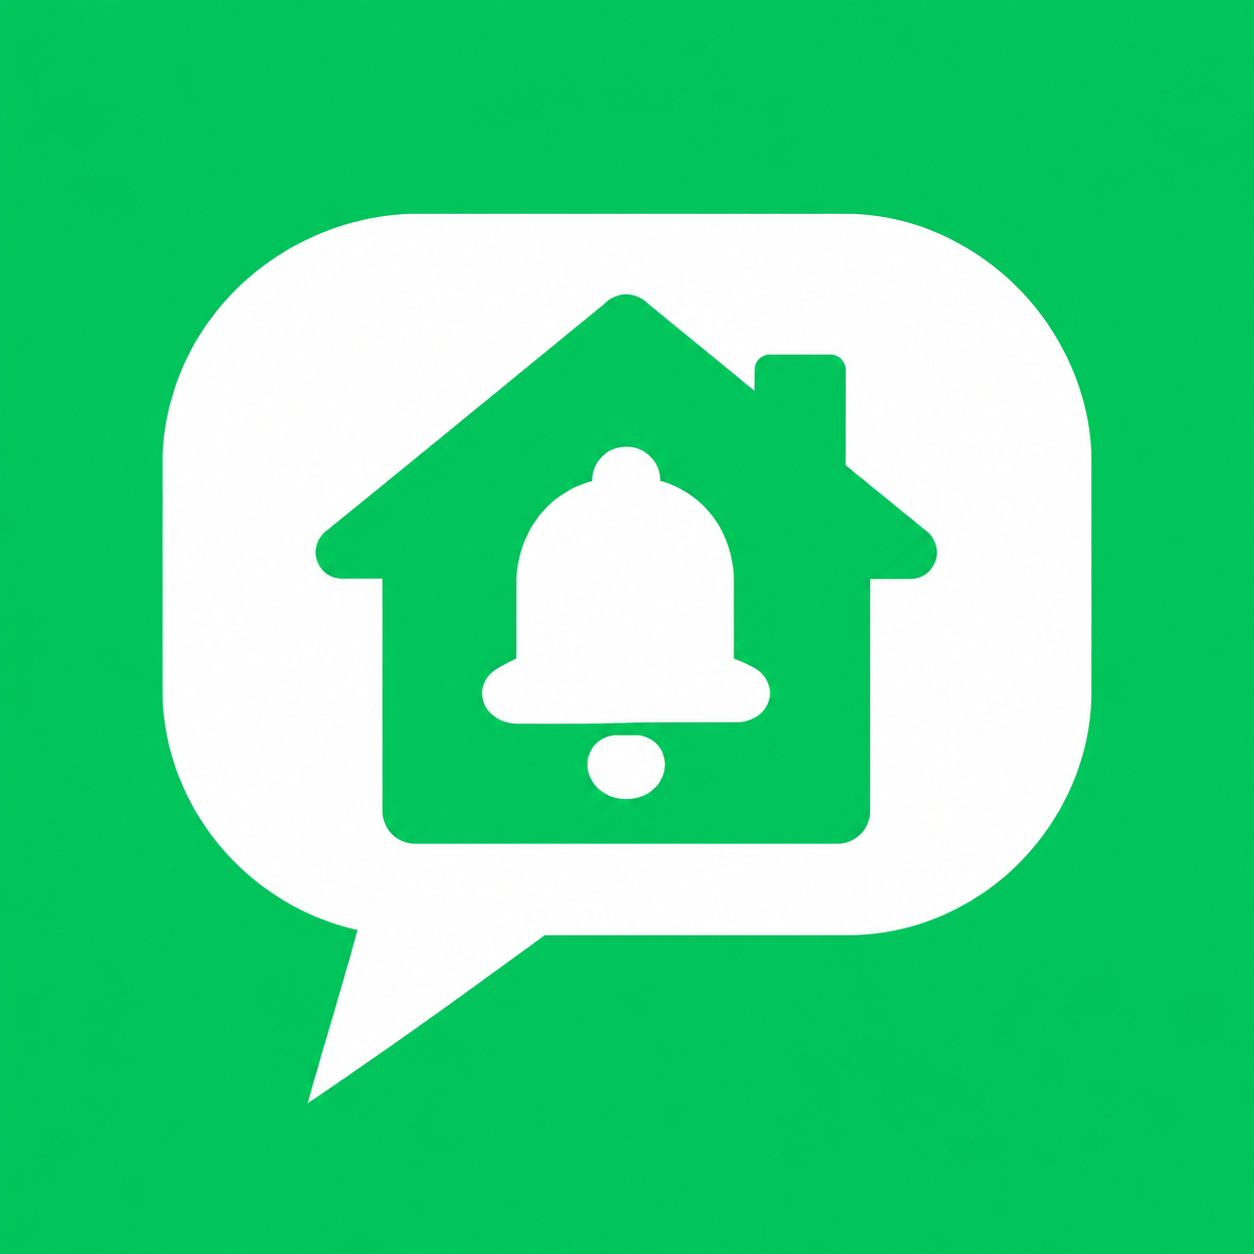
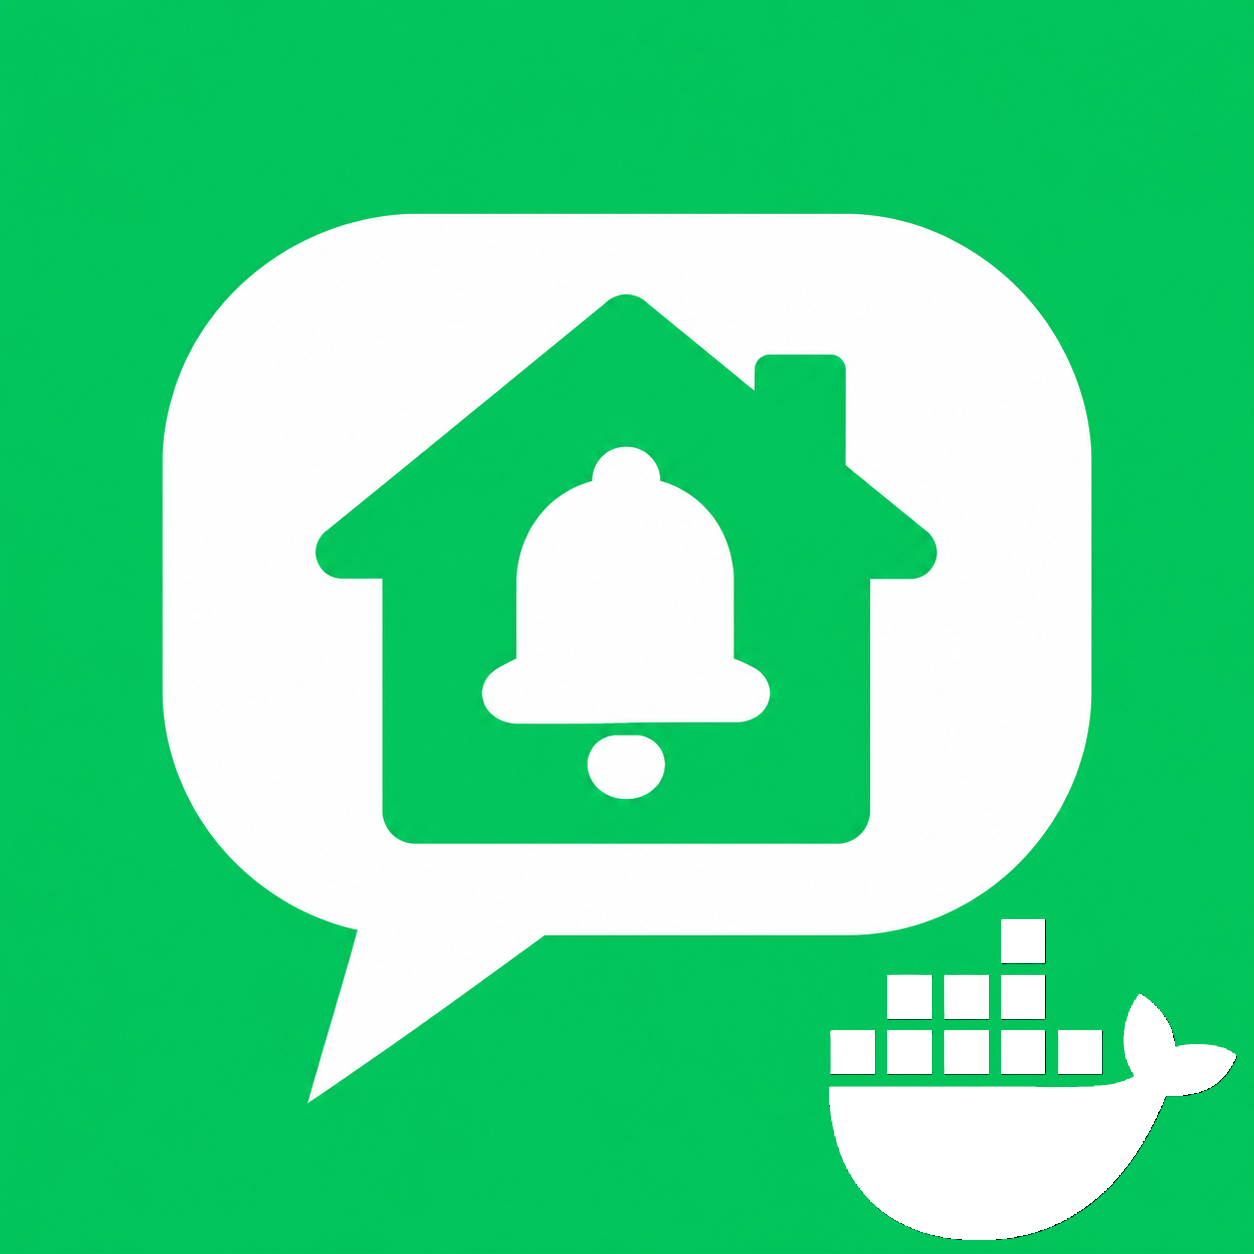
初始版本(可運作)

Changed region(s): [[0.6531, 0.7153, 0.9952, 0.9952]]

diff --git a/line_oa/app/src/server.ts b/line_oa/app/src/server.ts
@@ -4,7 +4,6 @@ import { join, dirname } from 'node:path';
 import { fileURLToPath, pathToFileURL } from 'node:url';
 import { PairingManager, PairingError } from './pairing.js';
 import { DiscoveryPublisher, supervisorRequest, type SupervisorRequest } from './discovery.js';
-import { trustedIngress, ingressPath, ingressMutationAllowed } from './ingress.js';
 import { DATA_DIR, loadConfig } from './config.js';
 import { MemoryLogger } from './logger.js';
 import { SessionManager } from './session.js';
@@ -23,7 +22,6 @@ export interface GatewayOptions {
   lineRequest?: RequestFn;
   qrLogin?: BusinessQrLogin;
   supervisor?: SupervisorRequest;
-  ingressTrust?: typeof trustedIngress;
   sessionCheckDelayMs?: () => number;
 }
 
@@ -205,8 +203,6 @@ async function handleApiV1(req: IncomingMessage, res: ServerResponse, path: stri
 
 const handleUi = async (req: IncomingMessage, res: ServerResponse) => {
   try {
-    if (!(options.ingressTrust ?? trustedIngress)(req) || !ingressPath(req)) return json(res, 403, { error: 'INGRESS_REQUIRED' });
-    if (!ingressMutationAllowed(req)) return json(res, 403, { error: 'ORIGIN_REJECTED' });
     const requestUrl = new URL(req.url ?? '/', 'http://localhost');
     const path = requestUrl.pathname;
     if (path.startsWith('/api/v1/')) return json(res, 404, { error: 'NOT_FOUND' });
@@ -220,7 +216,7 @@ const handleUi = async (req: IncomingMessage, res: ServerResponse) => {
       let browser = auth.browserSession(req.headers.cookie);
       if (!config.uiAuthEnabled && !browser) {
         const created = auth.anonymousSession();
-        res.setHeader('Set-Cookie', scopedCookie(created.cookie, req));
+        res.setHeader('Set-Cookie', standaloneCookie(created.cookie, req));
         browser = { token: '', csrf: created.csrf };
       }
       return json(res, 200, { authenticated: !!browser, setupRequired: config.uiAuthEnabled && auth.setupRequired(), authRequired: config.uiAuthEnabled, ...(browser ? { csrfToken: browser.csrf } : {}) });
@@ -235,7 +231,7 @@ const handleUi = async (req: IncomingMessage, res: ServerResponse) => {
     }
     if (req.method === 'POST' && path === '/api/auth/logout' && browser) {
       qrLogin.cancel(browser.token);
-      auth.logout(browser.token); res.setHeader('Set-Cookie', scopedCookie(auth.clearCookie(), req)); return json(res, 200, { ok: true });
+      auth.logout(browser.token); res.setHeader('Set-Cookie', standaloneCookie(auth.clearCookie(), req)); return json(res, 200, { ok: true });
     }
     if (req.method === 'POST' && path === '/api/session/logout') {
       if (sender.isBusy()) throw new Error('SEND_BUSY');
@@ -329,9 +325,9 @@ const handleUi = async (req: IncomingMessage, res: ServerResponse) => {
   }
 };
 
-function scopedCookie(cookie: string, req: IncomingMessage): string {
+function standaloneCookie(cookie: string, req: IncomingMessage): string {
   const secure = req.headers['x-forwarded-proto'] === 'https' || req.headers.origin?.startsWith('https://');
-  return cookie.replace('Path=/;', `Path=${ingressPath(req)}/;`) + (secure ? '; Secure' : '');
+  return cookie.replace('Path=/;', 'Path=/;') + (secure ? '; Secure' : '');
 }
 const uiServer = http.createServer(handleUi);
 const apiServer = http.createServer(async (req, res) => {
@@ -355,16 +351,23 @@ const apiServer = http.createServer(async (req, res) => {
     handleV1Error(res, error);
   }
 });
-for (const server of [uiServer, apiServer]) { server.requestTimeout = 20_000; server.headersTimeout = 10_000; }
+// One listener makes the UI and public API usable without an Ingress proxy.
+const standaloneServer = http.createServer((req, res) => {
+  const path = new URL(req.url ?? '/', 'http://localhost').pathname;
+  (path.startsWith('/api/v1/') ? apiServer : uiServer).emit('request', req, res);
+});
+for (const server of [uiServer, apiServer, standaloneServer]) { server.requestTimeout = 20_000; server.headersTimeout = 10_000; }
 let stopping: Promise<void> | undefined;
 return {
-  pairing, discovery, sessions, contacts, auth, uiServer, apiServer,
-  async start(apiPort = 8787, uiPort = 8099, host = '0.0.0.0') {
+  pairing, discovery, sessions, contacts, auth, uiServer: standaloneServer, apiServer,
+  // The second positional argument is retained only so existing embedded callers
+  // can upgrade without a TypeScript break. The standalone server has one port.
+  async start(port = config.port, _legacyUiPort?: number, host = config.listenHost) {
     const listen = (server: http.Server, port: number) => new Promise<void>((resolve, reject) => {
       server.once('error', reject);
       server.listen(port, host, () => { server.off('error', reject); resolve(); });
     });
-    try { await listen(apiServer, apiPort); await listen(uiServer, uiPort); }
+    try { await listen(standaloneServer, port); }
     catch (error) { await this.stop(); throw error; }
     logger.add('SERVER_START', 'SUCCESS');
     discovery?.start();
@@ -382,9 +385,9 @@ return {
       const close = (server: http.Server) => new Promise<void>(resolve => {
         server.close(() => resolve()); server.closeIdleConnections();
       });
-      const deadline = setTimeout(() => { apiServer.closeAllConnections(); uiServer.closeAllConnections(); }, 20_000);
+      const deadline = setTimeout(() => { standaloneServer.closeAllConnections(); }, 20_000);
       deadline.unref();
-      try { await Promise.all([close(apiServer), close(uiServer)]); await images.cleanup(); }
+      try { await close(standaloneServer); await images.cleanup(); }
       finally { clearTimeout(deadline); }
     })();
     return stopping;

diff --git a/line_oa/app/src/config.ts b/line_oa/app/src/config.ts
@@ -3,12 +3,14 @@ import { randomUUID } from 'node:crypto';
 import type { GatewayConfig } from './types.js';
 import { atomicWriteJson, ensurePrivateDir, readJsonSafe } from './storage.js';
 
-export const DATA_DIR = process.env.DATA_DIR || '/data';
+// The standalone application keeps all state in a local directory by default.
+// Set DATA_DIR when deploying with a volume (for example, in Docker).
+export const DATA_DIR = process.env.DATA_DIR || join(process.cwd(), 'data');
 
 export const DEFAULT_CONFIG: GatewayConfig = {
   instanceId: '',
   listenHost: '0.0.0.0',
-  port: 8787,
+  port: Number(process.env.PORT) || 8787,
   contactsCacheTtlMs: 600_000,
   uiAuthEnabled: false,
   apiEnabled: false,
@@ -39,8 +41,8 @@ export async function loadConfig(dataDir = DATA_DIR): Promise<{ config: GatewayC
   if (config.instanceId && !/^[0-9a-f]{8}-[0-9a-f]{4}-[1-8][0-9a-f]{3}-[89ab][0-9a-f]{3}-[0-9a-f]{12}$/i.test(config.instanceId)) throw new Error('INSTANCE_ID_CORRUPT_RESTORE_BACKUP');
   const configChanged = !config.instanceId || !/^[0-9a-f]{8}-[0-9a-f]{4}-[1-8][0-9a-f]{3}-[89ab][0-9a-f]{3}-[0-9a-f]{12}$/i.test(config.instanceId);
   if (configChanged) config.instanceId = randomUUID();
-  config.listenHost = '0.0.0.0';
-  config.port = 8787;
+  config.listenHost = process.env.HOST || '0.0.0.0';
+  config.port = Number(process.env.PORT) || config.port;
   config.apiEnabled = true;
   config.uiAuthEnabled = false;
 

diff --git a/line_oa/app/scripts/generate-api-key.ts b/line_oa/app/scripts/generate-api-key.ts
@@ -2,7 +2,7 @@ import { createHash, randomBytes } from 'node:crypto';
 import { join } from 'node:path';
 import { atomicWriteJson, ensurePrivateDir } from '../src/storage.js';
 
-const dataDir = process.env.DATA_DIR || '/var/lib/line-oa-gateway';
+const dataDir = process.env.DATA_DIR || '/data';
 await ensurePrivateDir(join(dataDir, 'secrets'));
 const key = `loagw_${randomBytes(32).toString('base64url')}`;
 await atomicWriteJson(join(dataDir, 'secrets', 'api-key.json'), { version: 2, hash: createHash('sha256').update(key).digest('hex'), createdAt: new Date().toISOString() }, 0o600);

diff --git a/README.md b/README.md
@@ -1,153 +1,43 @@
 <p align="center"><img src="line_oa/icon@2x.png" width="112" alt="LINE OA Add-on icon"></p>
 
-# LINE OA — Home Assistant Add-on
+# LINE OA — Web Gateway
 
 > ⚠ **非官方使用警語**
 >
 > 本專案採非官方方式使用 LINE 服務，使用風險由使用者自行承擔。若因此造成帳號異常、限制、停權或其他損失，開發者不負相關責任。
 
-透過 LINE 官方帳號傳送 Home Assistant 文字、圖片與攝影機快照通知。使用 Home Assistant 的 Web UI 完成 LINE 登入，為收件者設定別名，搭配 [LINE OA HACS 整合](https://github.com/xangin/line-oa-hacs)完成通知。
+透過 LINE 官方帳號傳送 Home Assistant 文字、圖片與攝影機快照通知。使用 Web UI 完成 LINE 登入，為收件者設定別名，搭配 HTTP API v1 完成通知寄送。
 
-[![Test and build](https://github.com/xangin/line-oa-ha-addon/actions/workflows/test.yaml/badge.svg)](https://github.com/xangin/line-oa-ha-addon/actions/workflows/test.yaml)
-[![Release](https://img.shields.io/github/v/release/xangin/line-oa-ha-addon)](https://github.com/xangin/line-oa-ha-addon/releases)
+TODO... 建立映像工作流
 
-> **使用本 Add-on 必須搭配 [LINE OA HACS 整合](https://github.com/xangin/line-oa-hacs)。**
+> 與[原始專案](https://github.com/xangin/line-oa-ha-addon)相比，此版本**無需與HA配合使用**，可於任意程式透過API呼叫。
 
 ## 功能與需求
 
 - LINE QR Code／PIN 登入、官方帳號選擇及登出。
 - 聯絡人查詢、重新整理與收件者別名白名單。
 - 文字、單張 JPEG／PNG 圖片（最大 10 MiB）及供整合呼叫的 HTTP API v1。
-- Home Assistant Ingress 管理介面、自動探索與一次性配對交換。
+- 一般的 Web UI 管理介面、自動探索與一次性配對交換。
 - 當地時區日誌、失敗回應詳情與憑證遮蔽。
-- 預建映像安裝；備份保存設定與登入資料，還原時重新下載映像，排除暫存、快取與日誌。
+
+TODO... 預建映像安裝; 整理檔案; 整理文件;
 
 | 需求 | 說明 |
 | --- | --- |
-| Home Assistant | 有 Supervisor／App Store 的安裝；一般建議 Home Assistant OS |
-| 架構 | **amd64（x86-64）及 aarch64（ARM64）**；Raspberry Pi 需安裝 64 位元 HAOS，32 位元 ARM 不支援 |
+| Docker | TODO... 待確認細節 |
+| 架構 | **amd64（x86-64)**； arm之後會再加入 |
 | LINE | 手機 LINE，以及可登入、管理該官方帳號的 LINE 帳號 |
-| 網路 | HA 可連線 LINE、GitHub 與 GHCR；還原映像也需要網路 |
-| 必要整合 | **[LINE OA HACS 整合](https://github.com/xangin/line-oa-hacs)** |
-
-僅有 Home Assistant Container／Core、沒有 Supervisor 的環境不能安裝本 Add-on。也不需要為本 Add-on 另外建立 Messaging API Channel、Channel Access Token 或公開 Webhook URL。
+| 網路 | 需要能連線到 LINE、GitHub 與 GHCR |
 
 ![管理介面範例（使用合成帳號與 Mock LINE）](docs/screenshots/overview-0.1.1.png)
 
-## 1. 申請 LINE 官方帳號
+## 其他注意事項
+- 專案主要是透過 Codex 進行調整，並由人類做Review與小調整，但仍可能有非人為的錯誤風險。
+- 本質上是從源專案撥離 HA 的部分，讓其可以獨立於Docker容器中運作，流程上目前可能有所缺失。
+- 雖然已可運作，但既有的程式仍尚待清理，文件也是(包還佈署相關流程)。
 
-已有官方帳號且能在管理後台進行聊天，可直接進到下一節。
-
-1. 從 LINE 的[免費開設官方帳號](https://tw.linebiz.com/account/)頁面開始，依官方畫面登入並建立帳號。
-2. 建立完成後，登入 [LINE Official Account Manager](https://manager.line.biz/)，確認可以選到要使用的官方帳號。
-3. 若帳號由其他人建立，請由擁有者透過官方的[權限管理說明](https://tw.linebiz.com/manual/line-official-account/oa-manager/)授予適當管理權限。
-
-申請欄位、驗證、方案及費用以 LINE 官方頁面為準。本專案不代辦申請，也不要求提供 LINE 密碼或手機驗證碼。
-
-## 2. 必須啟用「聊天」並建立對話
-
-**只建立官方帳號還不夠，請先開啟聊天。**
-
-1. 在 [LINE Official Account Manager](https://manager.line.biz/) 選擇官方帳號。
-2. 進入「設定 → 回應設定」，啟用「聊天」。若設有回應時間，也請核對手動聊天的時段與回應方式。
-3. 用要接收通知的個人 LINE 加入該官方帳號好友，並先傳一則訊息給官方帳號。
-4. 回到官方後台的聊天頁面，確認可以找到此對話並手動回覆。
-
-詳細畫面請直接參考 LINE 官方教學：
-
-- [一對一聊天：啟用聊天模式與基本操作](https://tw.linebiz.com/manual/line-official-account/oa-manager-chatting/)
-- [回應設定、回應時間與帳號權限](https://tw.linebiz.com/manual/line-official-account/oa-manager/)
-
-聯絡人來自後台聊天集合，**不等於全部好友名單**。找不到收件者時，先確認對方已傳訊、未封鎖帳號，且官方後台可正常聊天；再到 Add-on 重新整理。群組支援取決於 LINE 官方帳號設定及後台實際回傳的聊天對象，不保證每個群組都會出現。
-
-## 3. 安裝 Add-on
-
-[![Open your Home Assistant instance and show the add repository dialog](https://my.home-assistant.io/badges/supervisor_add_addon_repository.svg)](https://my.home-assistant.io/redirect/supervisor_add_addon_repository/?repository_url=https%3A%2F%2Fgithub.com%2Fxangin%2Fline-oa-ha-addon)
-
-或手動加入：
-
-1. 在 Home Assistant 開啟「設定 → 應用程式／附加元件 → 商店」。介面名稱會隨 HA 版本不同。
-2. 右上角選單 →「儲存庫／Repositories」，加入：
-
-   ```text
-   https://github.com/xangin/line-oa-ha-addon
-   ```
-
-3. 找到 **LINE OA**，按「安裝」。此步驟會下載與版本相符的預建映像。
-4. 啟動後按「開啟 Web UI」。建議開啟「開機啟動」。
-
-不需要新增 HA YAML、手動開放 TCP 埠或關閉保護模式。Web UI 必須由 Home Assistant 的「開啟 Web UI」進入，不能直接使用主機 IP 加上內部埠號。
-
-## 4. 登入 LINE 與設定收件者
-
-1. 「總覽」→「登入／切換官方帳號」。
-2. 用手機 LINE 掃描行動條碼，依畫面確認登入。若顯示 PIN，請依手機畫面核對；若顯示帳號選擇，選取正確的官方帳號。
-3. 等待完成，再按「手動測試連線」，確認狀態為 **CONNECTED**。
-4. 「聯絡人」→ **先按「重新整理」**，從 LINE 載入對象；需要時輸入名稱搜尋。
-5. 找到對象後按「設為別名」，輸入例如 `home`。別名限 1–32 字元的小寫英文字母、數字、底線或連字號。
-6. 確認出現在「允許的收件者別名」。**沒有別名的對象不能發送通知。** 名稱相同時請核對 Web Chat ID。
-7. 到「發送測試」選取別名，先對已確認的收件者發送少量測試訊息。
-
-`who` 使用 `home` 這類別名，不填 LINE ID、電話號碼或 Messaging API User ID。
-
-「登出 LINE」清除此 Add-on 保存的登入資料與聯絡人快取，保留別名與 HA 配對；之後需重新登入。切換官方帳號後，請重新核對收件者與別名。
-
-## 5. 必須搭配 LINE OA HACS 整合
-
-**本 Add-on 必須搭配 [LINE OA HACS 整合](https://github.com/xangin/line-oa-hacs)使用。**
-
-HACS 安裝、配對、Home Assistant Actions 與自動化使用方式，請直接參閱 **[HACS repo 的完整說明](https://github.com/xangin/line-oa-hacs#readme)**。
-
-## ARM64／Raspberry Pi
-
-從 **0.1.5** 起，商店提供 amd64 與 aarch64，使用同一個 GHCR 版本；Docker 會依主機選擇對應映像。Raspberry Pi 請使用 **64 位元的 Home Assistant OS**，不能以 32 位元 ARM 系統安裝 aarch64 映像。
-
-發布前會在 amd64 與 ARM64 原生 Linux runner 分別執行測試與容器 smoke，再組合多架構映像。ARM64 另以 Apple Silicon Mac 的 ARM64 Linux VM 驗證；此項測試不等於已在實體 Raspberry Pi 的 HAOS 做安裝測試。[架構與驗證範圍](docs/architectures.md)。
-
-## 備份、還原與更新
-
-- 在 Home Assistant 系統備份中包含 **LINE OA**。備份保存登入 Session、別名、永久身份、配對憑證雜湊及 App 設定。
-- 正式版使用 GHCR 預建映像，Supervisor 不必把整份 runtime／Docker 映像放進 App 備份；還原時下載備份對應的版本。
-- 暫存圖片、快取及日誌排除。實際備份大小仍受必要資料與 HA 備份封裝影響。
-- 冷備份會短暫停止並恢復 Add-on。備份本身含敏感登入資料，請保護 HA 備份與復原金鑰。
-- 從商店更新會保留 `/data`；**不要以解除安裝後重裝代替更新**。
-- 還原需要可連線 GHCR，且該版本映像仍存在。即使檔案成功還原，LINE 仍可能要求重新登入。
-
-實機的小型設定備份由約 **86.55 MiB 降為 10 KiB**；實際大小隨必要資料量不同。[備份內容與實測](docs/backups.md)。
-
-## 常見問題
-
-| 情況 | 先檢查 |
-| --- | --- |
-| 商店看不到 Add-on | 確認已加入本儲存庫、重新整理商店，且主機為 amd64 或 aarch64 |
-| 安裝／還原下載失敗 | 確認 HA 可連線 `ghcr.io` 及 GitHub，查看 App／Supervisor 日誌 |
-| 無法登入／沒有帳號可選 | 確認手機使用的 LINE 帳號具有官方帳號管理權限，且官方網站可正常登入 |
-| 找不到聯絡人 | 啟用聊天、讓對方先傳訊，在官方後台確認對話，再按 Add-on「重新整理」 |
-| `TARGET_NOT_ALLOWED` | 收件者尚未設定允許別名，或 `who` 拼寫不同 |
-| `WEB_UI_CSRF_TOKEN_*` | 頁面驗證已失效；重新整理 Add-on 頁面再操作，遭拒的操作尚未執行 |
-| `LINE_HTTP_403_CSRF_OR_PERMISSION_DENIED` | 展開失敗紀錄，檢查 LINE 回應與帳號權限，必要時重新登入 |
-| `LOGIN_BUSINESS_CSRF_MISSING` | LINE 登入頁與預期格式不同；查看遮蔽後的回應，提供版本與錯誤名稱回報 |
-| Home Assistant 整合或 Actions 問題 | 請參閱 [HACS repo 的說明](https://github.com/xangin/line-oa-hacs#readme) |
-| `UNKNOWN` | 不自動重送，先確認 LINE 是否已收到 |
-
-日誌依 HA 提供的當地時區顯示；「紀錄」可以展開失敗系統回應。憑證會遮蔽，但內容仍可能包含帳號或對象資訊，公開回報前請自行檢查。
-
-[故障排除](docs/troubleshooting.md) · [回報問題](https://github.com/xangin/line-oa-ha-addon/issues/new/choose) · [安全回報](SECURITY.md)
-
-## 開發與介接
-
-執行環境為 Node.js 24，正式 runtime 無第三方 npm 生產相依或 Chromium。原有 LINE 通訊核心由 Gateway 0.5.0 移植，保留一次提交、結果不明不重送的行為。
-
-```sh
-npm --prefix line_oa/app ci --ignore-scripts --no-audit --no-fund
-npm --prefix line_oa/app test
-python3 scripts/check-backup-policy.py
-python3 scripts/build-local-image.py
-python3 scripts/container-smoke.py
-```
-
-[完整操作](DOCS.md) · [安裝](docs/installation.md) · [API 相容性](docs/api-compatibility.md) · [安全配對](docs/secure-pairing.md) · [探索](docs/discovery.md) · [安全邊界](docs/security.md) · [測試範圍](docs/verification.md) · [原始碼來源](docs/source-audit.md) · [貢獻指南](CONTRIBUTING.md)
+Codex 給的[獨立版操作文件](README-WEB.md) <= 之後整理完後會重寫
 
 ## 授權與商標
 
-專案程式碼採 [MIT License](LICENSE)。Node.js、Debian 及建置工具各依其原有授權；LINE、Home Assistant 及相關商標屬其各自權利人。本專案圖示為社群專案識別，不代表官方合作。
+專案程式碼採 [MIT License](LICENSE)。Node.js、Debian 及建置工具各依其原有授權；LINE 及相關商標屬其各自權利人。本專案圖示為社群專案識別，不代表官方合作。

diff --git a/README-WEB.md b/README-WEB.md
@@ -1,0 +1,63 @@
+# LINE OA Web Gateway
+
+Standalone web edition of LINE OA Gateway. It does not require Home Assistant,
+Home Assistant Supervisor, Ingress, or discovery services.
+
+## Run locally
+
+```sh
+cd line_oa/app
+npm ci
+npm run build
+npm start
+```
+
+Open `http://localhost:8787`. Persistent login credentials, contacts, aliases,
+and the API key are stored in `./data` by default. To store them elsewhere, set
+`DATA_DIR`. Set `PORT` and `HOST` to change the listener.
+
+## Run with Docker
+
+```sh
+cd line_oa/app
+docker build -t line-oa-web .
+docker run --rm -p 8787:8787 -v line-oa-data:/data line-oa-web
+```
+
+The browser UI and API share one origin and one port:
+
+- UI: `http://localhost:8787/`
+- health check: `GET /api/v1/health`
+- versioned API: `/api/v1/*`
+
+## Create an API v1 key
+
+The Home Assistant pairing endpoint is not used by the standalone edition.
+Generate the key inside the running container so the key itself is only printed
+to your terminal:
+
+```sh
+docker compose exec -T <service-name> node dist/scripts/generate-api-key.js
+```
+
+For a container started with `docker run`, use:
+
+```sh
+docker exec -it <container-name> node dist/scripts/generate-api-key.js
+```
+
+Save the output immediately. It is shown only once; the application persists
+only a hash under `/data/secrets/api-key.json`. Generating a replacement key
+invalidates the previous key after the gateway is restarted. Restart its
+container after generating or rotating a key so the running process reloads
+the stored hash.
+
+Send it with every API v1 request:
+
+```sh
+curl http://localhost:8787/api/v1/status \
+  -H "Authorization: Bearer loagw_your_key_here"
+```
+
+The original LINE service interaction is unofficial. Use a dedicated account and
+keep the persistent data volume private: it contains LINE session credentials.
